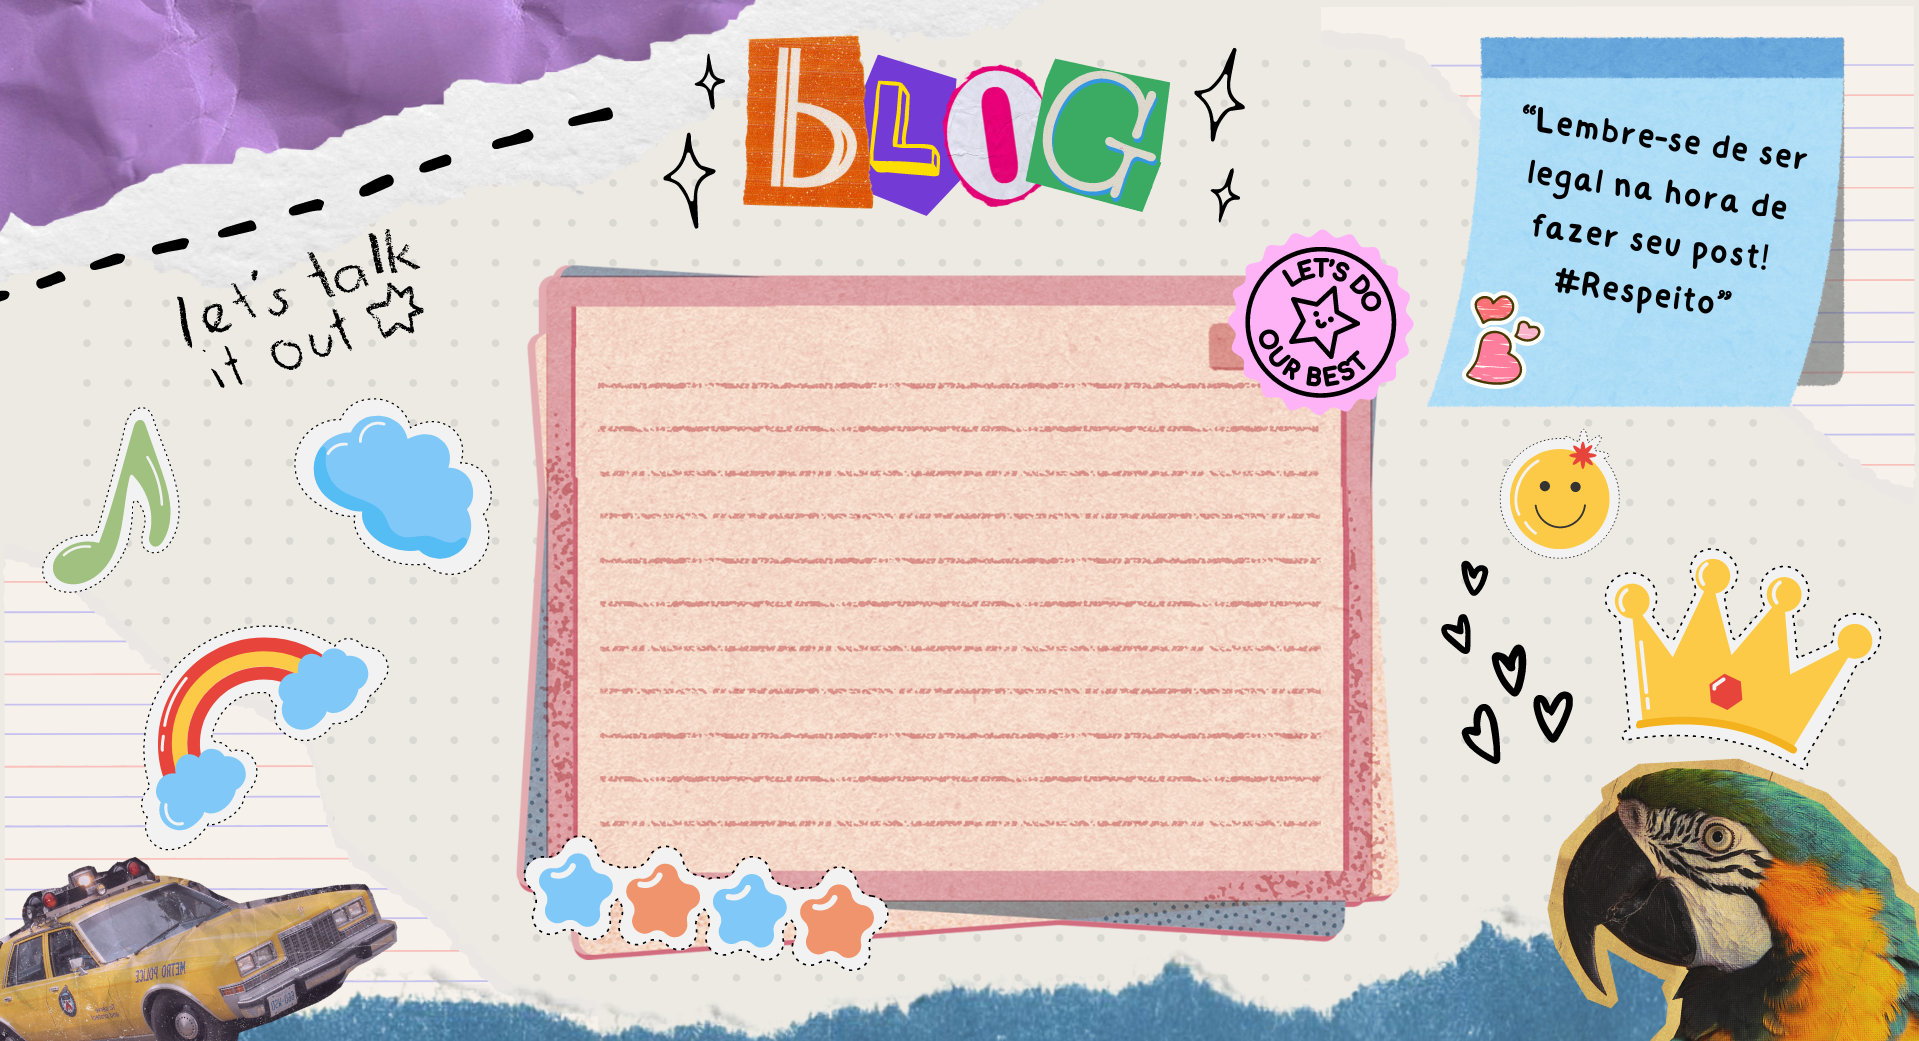
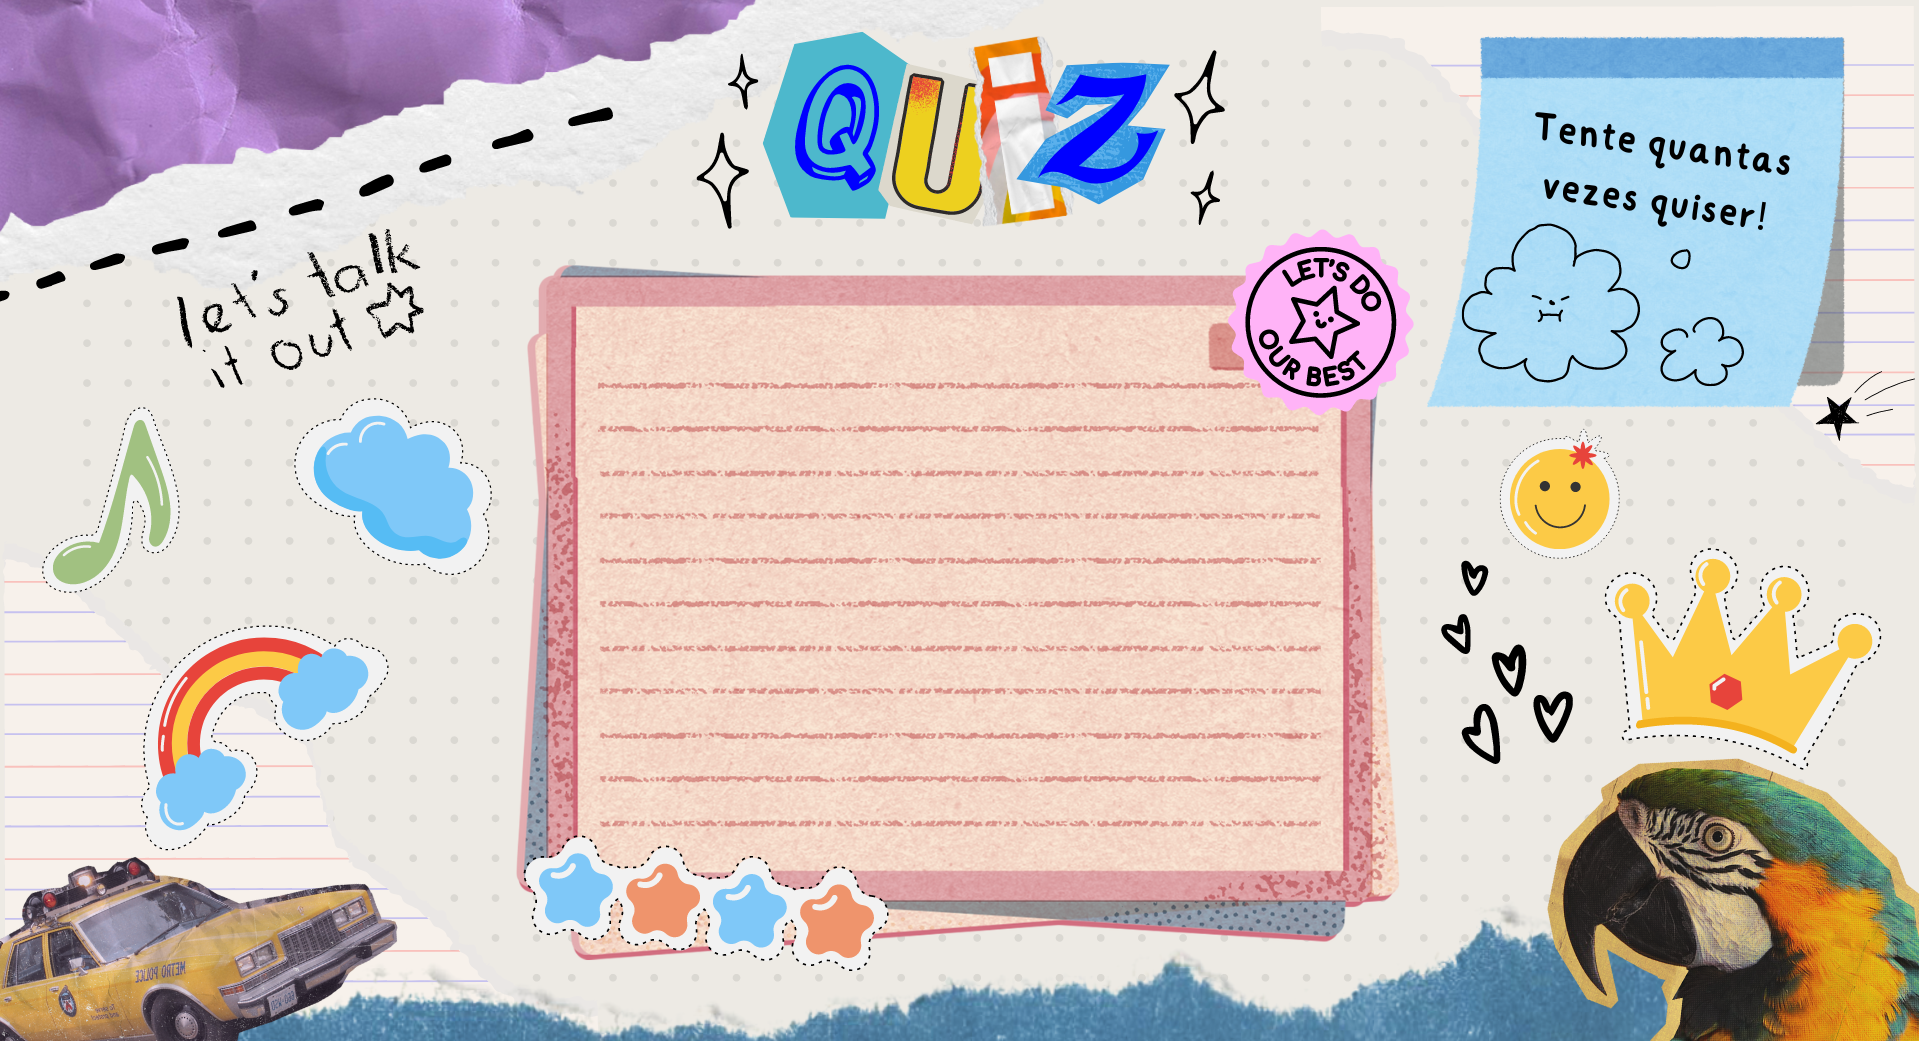
Quiz v1.2

Changed region(s): [[0.3382, 0.0307, 0.6456, 0.2152], [0.7379, 0.0922, 0.9531, 0.3689], [0.9531, 0.3689, 0.9838, 0.4304]]

diff --git a/public/quiz.html b/public/quiz.html
@@ -19,8 +19,8 @@
         </ul>
     </nav>
     <div class="conteudo">
-        <div id="quiz-container"></div>
         <div id="results" class="results"></div>
+        <div id="quiz-container"></div>
     </div>
 </body>
 <script>
@@ -36,9 +36,47 @@
                 answers: ["Xbox 360", "PlayStation 3", "Wii", "Nintendo Switch"],
                 correct: 1
             },
-            // Adicione mais perguntas conforme necessário
+            {
+                question: "Quem é o vilão de Little Big Planet 2?",
+                answers: ["Lich", "The Collector", "Negativitron", "Vex"],
+                correct: 2
+            },
+            {
+                question: "Qual destes locais, SackBoy nunca foi?",
+                answers: ["Avalonia", "Eve's Asylum", "Da Vinci's Hideout", "The Factory of End"],
+                correct: 3
+            },
+            {
+                question: "Quem é o primeiro personagem desbloqueado em Little Big Planet 3?",
+                answers: ["Zom Zom", "Toggle", "Swoop", "OddSock"],
+                correct: 3
+            },
+            {
+                question: "Quem é o personagem que aparece no tutorial em Little Big Planet 2?",
+                answers: ["Larry da Vinci", "Eve", "Rei", "Newton"],
+                correct: 0
+            },
+            {
+                question: "Em qual console SackBoy: A big adventure foi lançado?",
+                answers: ["Xbox Series X", "PlayStation 4", "PSVITA", "PlayStation 5"],
+                correct: 3
+            },
+            {
+                question: "Quem é o vilão de Little Big Planet 3?",
+                answers: ["Newton", "The Collector", "Negativitron", "Vex"],
+                correct: 0
+            },
+            {
+                question: "Qual foi o último jogo lançado da franquia?",
+                answers: ["Little Big Planet 3", "Little Big Planet Karting", "Little Big Planet 4", "SackBoy: A big adventure"],
+                correct: 0
+            },
+            {
+                question: "Qual personagem o SackBoy nunca ganhou skin?",
+                answers: ["Nathan Drake", "Kratos", "Sonic", "Master Chief"],
+                correct: 3
+            },
         ];
-
         let currentQuestionIndex = 0;
         let correctAnswers = 0;
 
@@ -70,7 +108,6 @@
             const questionData = questions[currentQuestionIndex];
             console.log(`Pergunta: ${questionData.question}`);
             console.log(`Resposta selecionada: ${questionData.answers[selectedIndex]}`);
-            console.log(`Resposta correta: ${questionData.answers[questionData.correct]}`);
             if (selectedIndex === questionData.correct) {
                 correctAnswers++;
                 console.log('Resposta correta!');
@@ -97,9 +134,9 @@
                 },
                 body: JSON.stringify({ correctAnswers: correctAnswers })
             })
-            // .then(response => response.json())
-            // .then(data => console.log('Resultados salvos:', data))
-            // .catch(error => console.error('Erro ao salvar resultados:', error));
+            .then(response => response.json())
+            .then(data => console.log('Resultados salvos:', data))
+            .catch(error => console.error('Erro ao salvar resultados:', error));
         }
 
         showQuestion(currentQuestionIndex);

diff --git a/public/assets/css/quiz.css b/public/assets/css/quiz.css
@@ -98,40 +98,55 @@
   transition: transform 0.3s ease; /* Adiciona uma transição suave */
 }
 
-.mensagem_erro{
-  color: red;
-  font-size: 27px;
+.question-container {
+  font-family: "Amatic SC", sans-serif;
   font-weight: 700;
   font-style: normal;
-}
-
-.question-container {
   display: flex;
   flex-direction: column;
   align-items: center;
   margin: 20px 0;
   padding: 20px;
-  border: 1px solid #ccc;
-  border-radius: 15px;
-  width: 80%;
+  width: 100%;
   max-width: 600px;
+  font-size: 30px;
+  margin-left: -30px;
 }
 .question {
-  font-size: 20px;
+  font-family: "Amatic SC", sans-serif;
+  font-weight: 700;
+  font-style: normal;
+  font-size: 30px;
   font-weight: bold;
   margin-bottom: 10px;
+  color: #000000;
 }
 .answer {
-  margin: 5px 0;
+  margin-bottom: 5px 0;
   padding: 10px;
   border-radius: 10px;
   cursor: pointer;
+  transition: transform 0.3s ease; /* Adiciona uma transição suave */
 }
 .answer:hover {
-  background-color: #f0f0f0;
+  background-color: #ff84cc;
+  transform: scale(1.2); /* Adiciona uma escala de 1.1 para a imagem */
+  cursor: pointer;
+  transition: transform 0.3s ease; /* Adiciona uma transição suave */
 }
 .results {
-  font-size: 24px;
+  font-family: "Amatic SC", sans-serif;
+  font-weight: 700;
+  font-style: normal;
+  font-size: 30px;
   font-weight: bold;
-  margin: 20px;
+  margin: 5px;
+  color: #000000;
+}
+
+.conteudo{
+  display: flex;
+  flex-direction: column;
+  align-items: center;
+  margin-top: 13%;
 }
